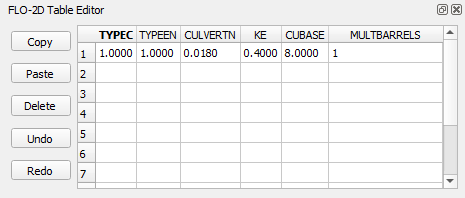
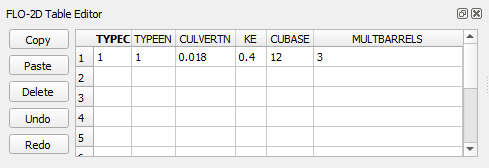
Exammples Finished

Changed region(s): [[0.0, 0.0, 1.0, 0.9524]]

diff --git a/source/flo-2d_plugin/user_manual/widgets/hydraulic-structure-editor/Hydraulic Structure Editor.rst b/source/flo-2d_plugin/user_manual/widgets/hydraulic-structure-editor/Hydraulic Structure Editor.rst
@@ -503,7 +503,7 @@ The remaining culvert parameters are defined in the Table Editor.
 - **TYPEC** =  1 (box) 
 - **TYPEEN** = 1 (wingwall flare)
 - **CULVERTN** = 0.018
-- **KE** 0.5 (wingwall and square edge)
+- **KE** 0.4 (wingwall and square edge)
 - **CUBASE** = 20 ft (width)
 - **MULTBARRELS** = 3 (multi-barrel)
 
@@ -563,8 +563,8 @@ The remaining culvert parameters are defined in the Table Editor.
 
 - **TYPEC** =  1 (box) 
 - **TYPEEN** = 1 (wingwall flare)
-- **CULVERTN** = 0.020
-- **KE** 0.5 (wingwall and square edge)
+- **CULVERTN** = 0.018
+- **KE** 0.4 (wingwall and square edge)
 - **CUBASE** = 12 ft (width)
 - **MULTBARRELS** = 1 (single-barrel)
 
